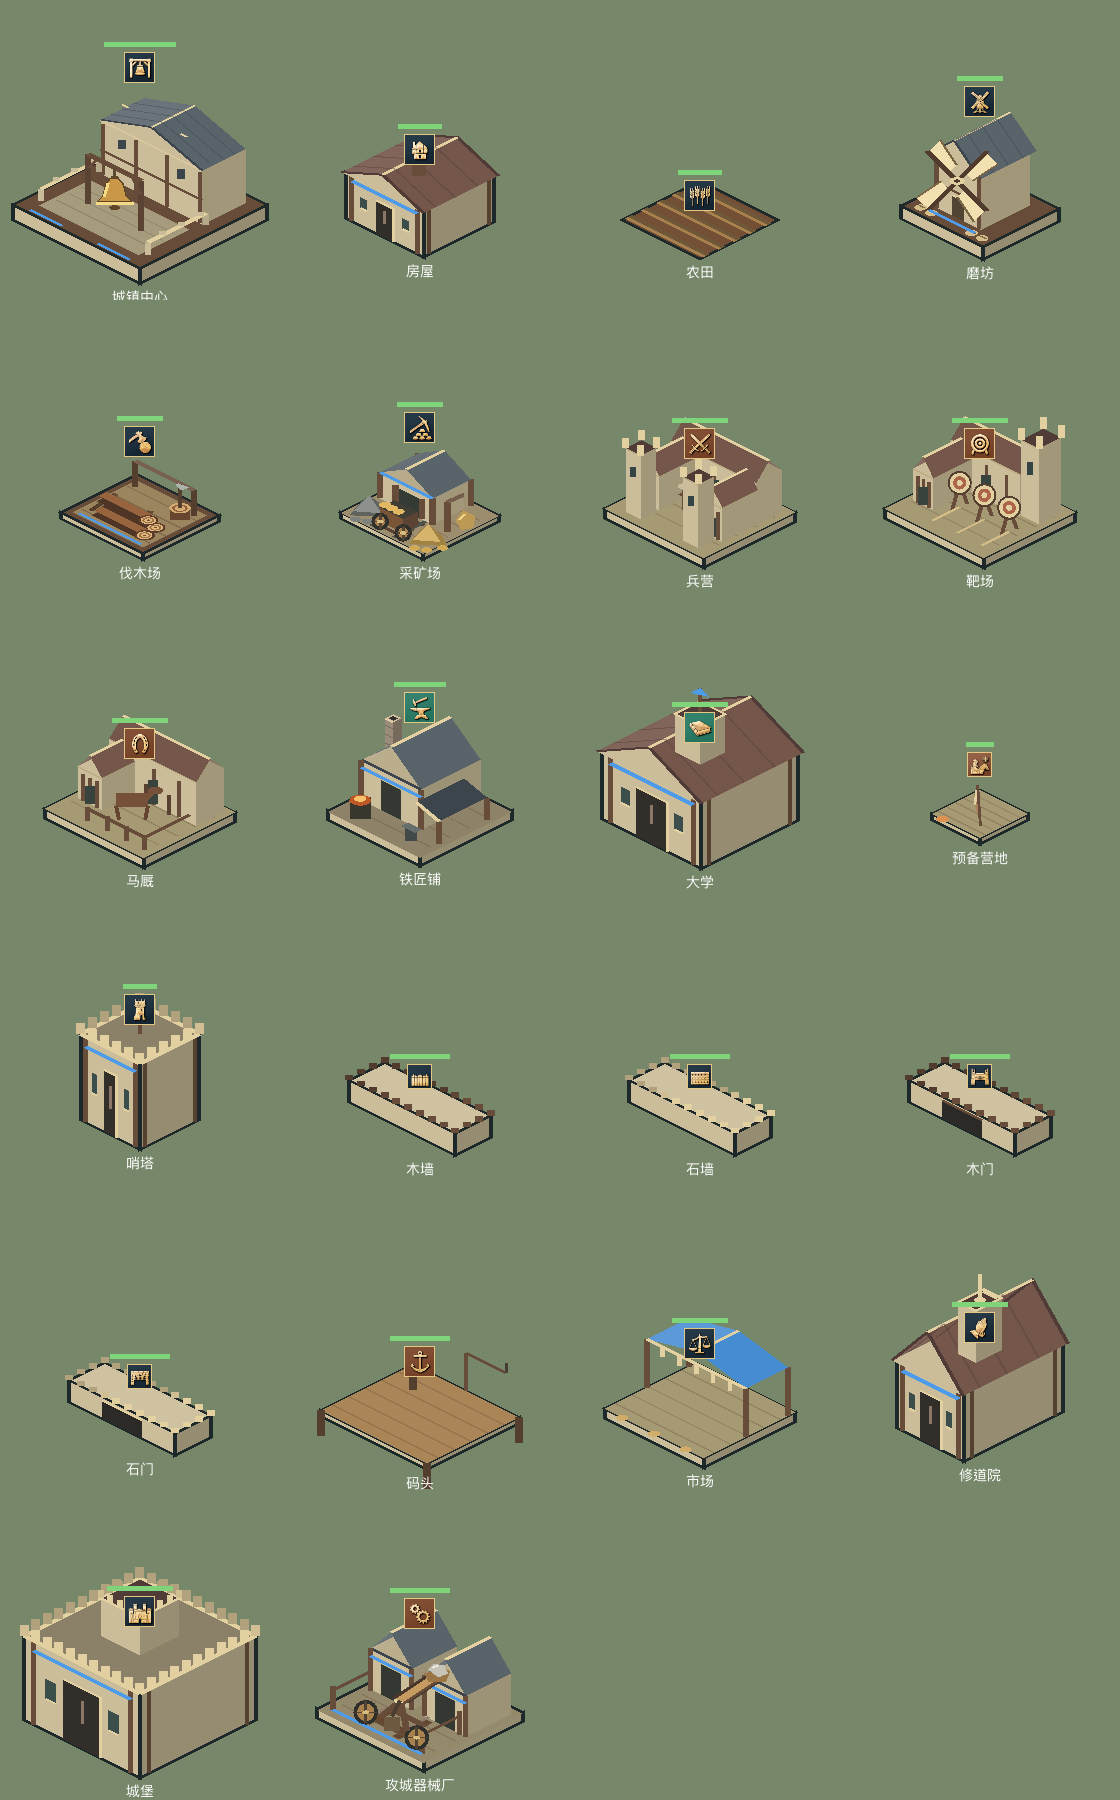
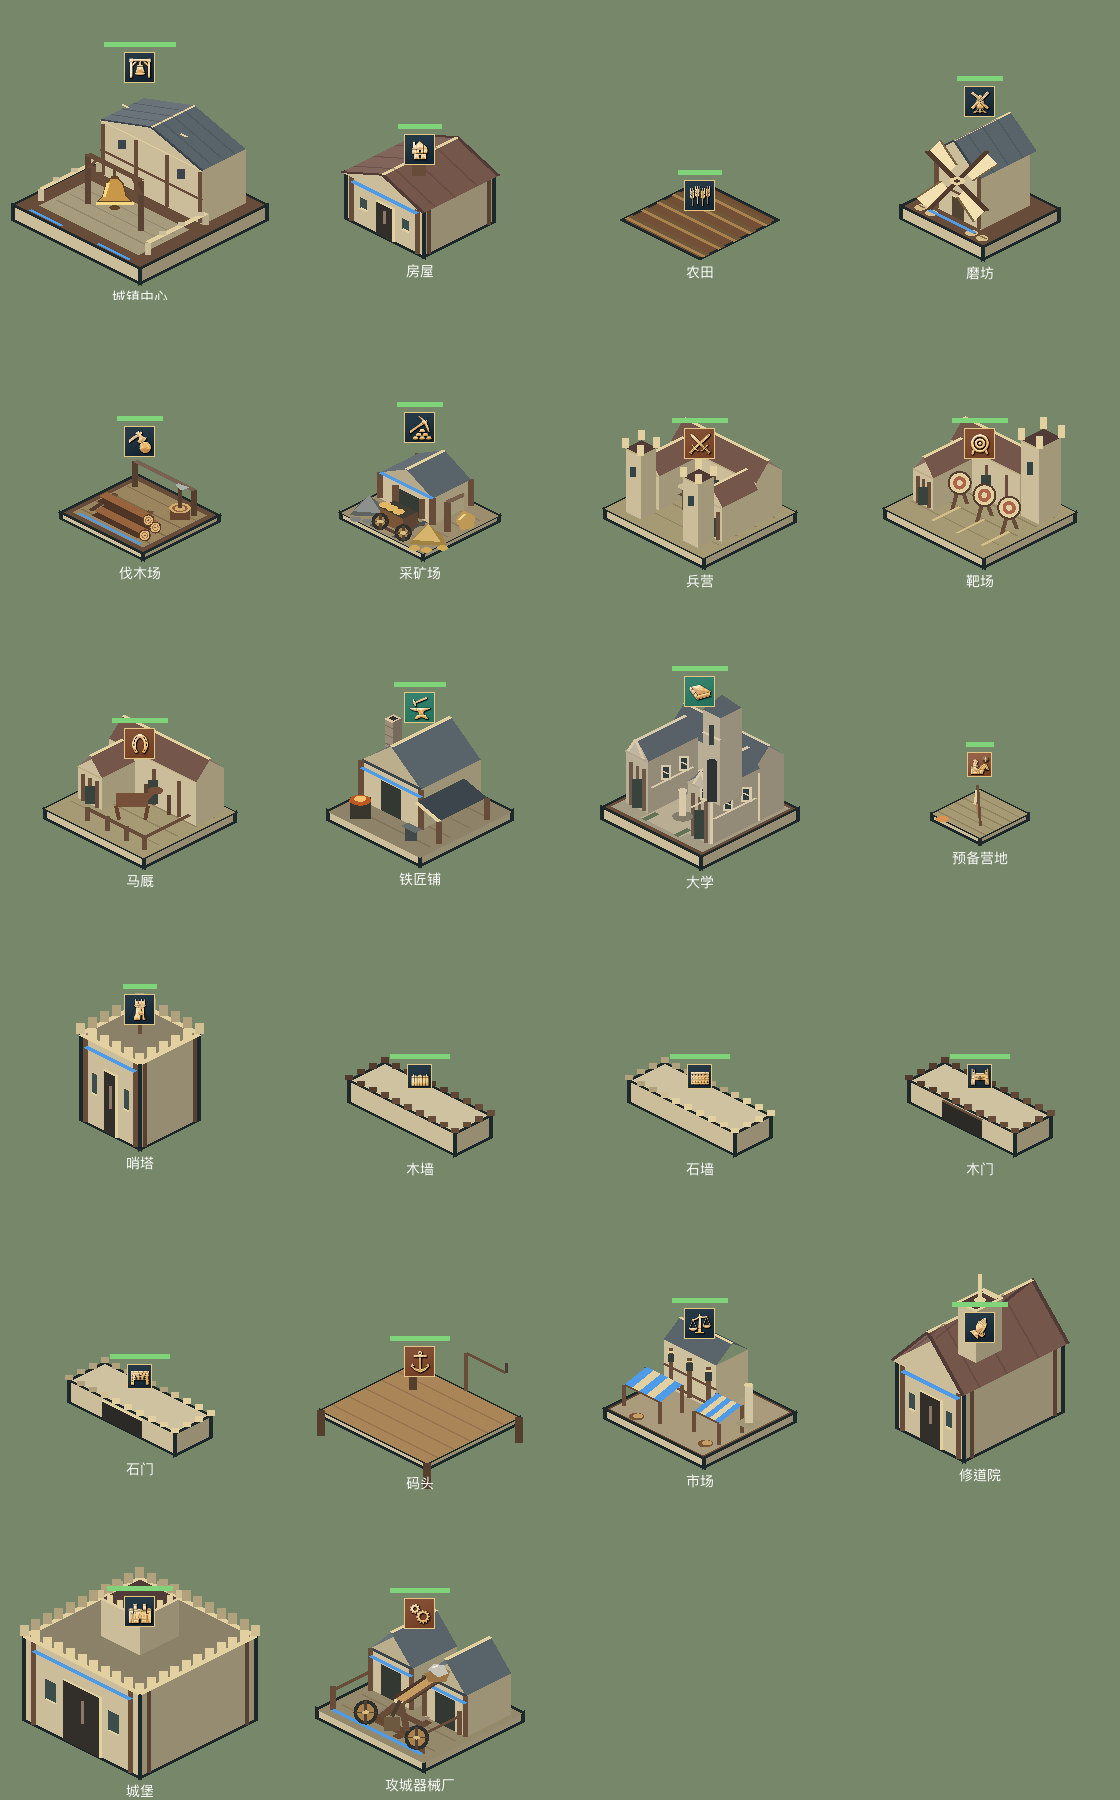
feat: add market and university visuals, enhancing building rendering functions

Changed region(s): [[0.5312, 0.3733, 0.7188, 0.4978], [0.5625, 0.7156, 0.7188, 0.8089], [0.125, 0.28, 0.1562, 0.3111]]

diff --git a/docs/building-preview/README.md b/docs/building-preview/README.md
@@ -14,6 +14,8 @@
 
 四座建筑的单张放大截图：[城镇中心](town_center-corrected-25d.png) · [采矿场](mining_camp-corrected-25d.png) · [磨坊](mill-corrected-25d.png) · [攻城器械厂](siege_workshop-corrected-25d.png)。
 
+市场和大学参考了 AoE4 的[英格兰市场](https://ageofempires.fandom.com/wiki/Market_(Age_of_Empires_IV))与[英格兰大学](https://ageofempires.fandom.com/wiki/University_(Age_of_Empires_IV))：市场以木构主楼、条纹摊棚、货物和中央石柱组成；大学改成围合前院的多翼建筑，增加中央门楼、窗列与庭院石像。
+
 造型参考是《帝国时代 IV》原版建筑图：
 
 | 建筑 | 借鉴的轮廓 | 参考 |
